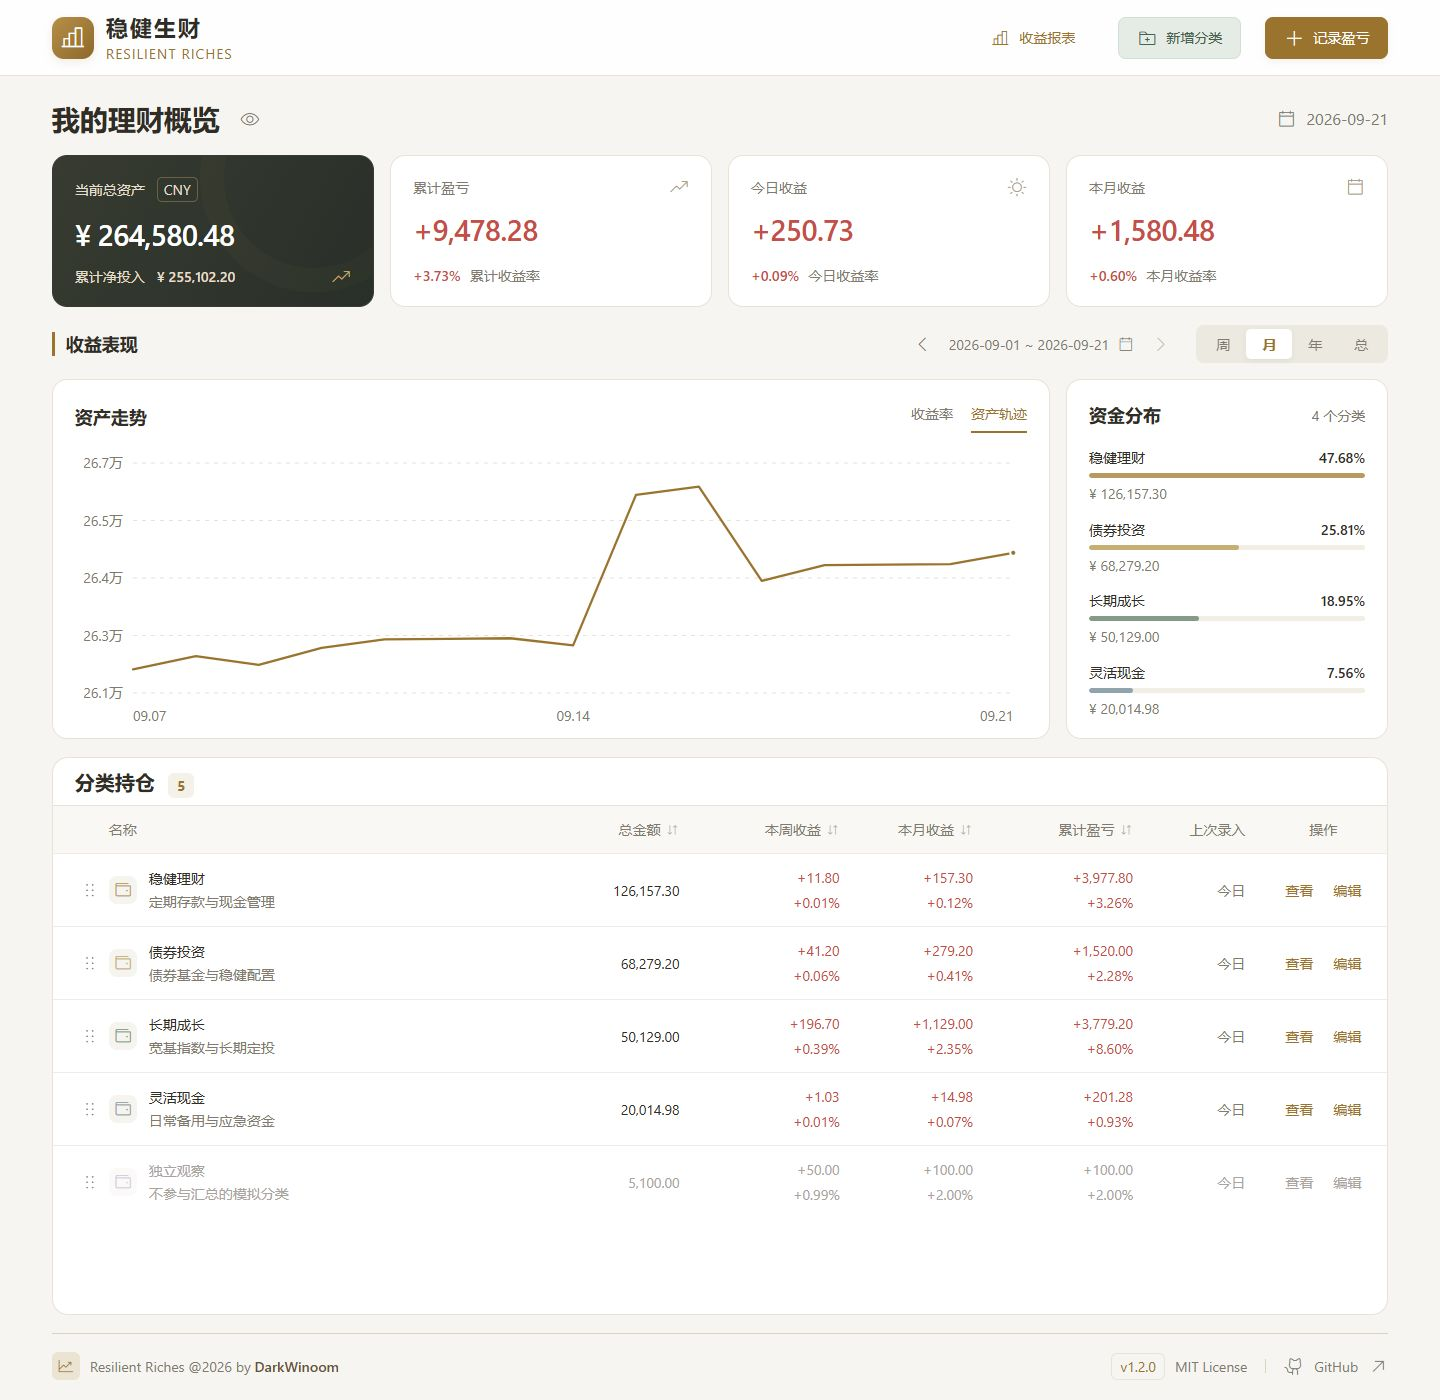
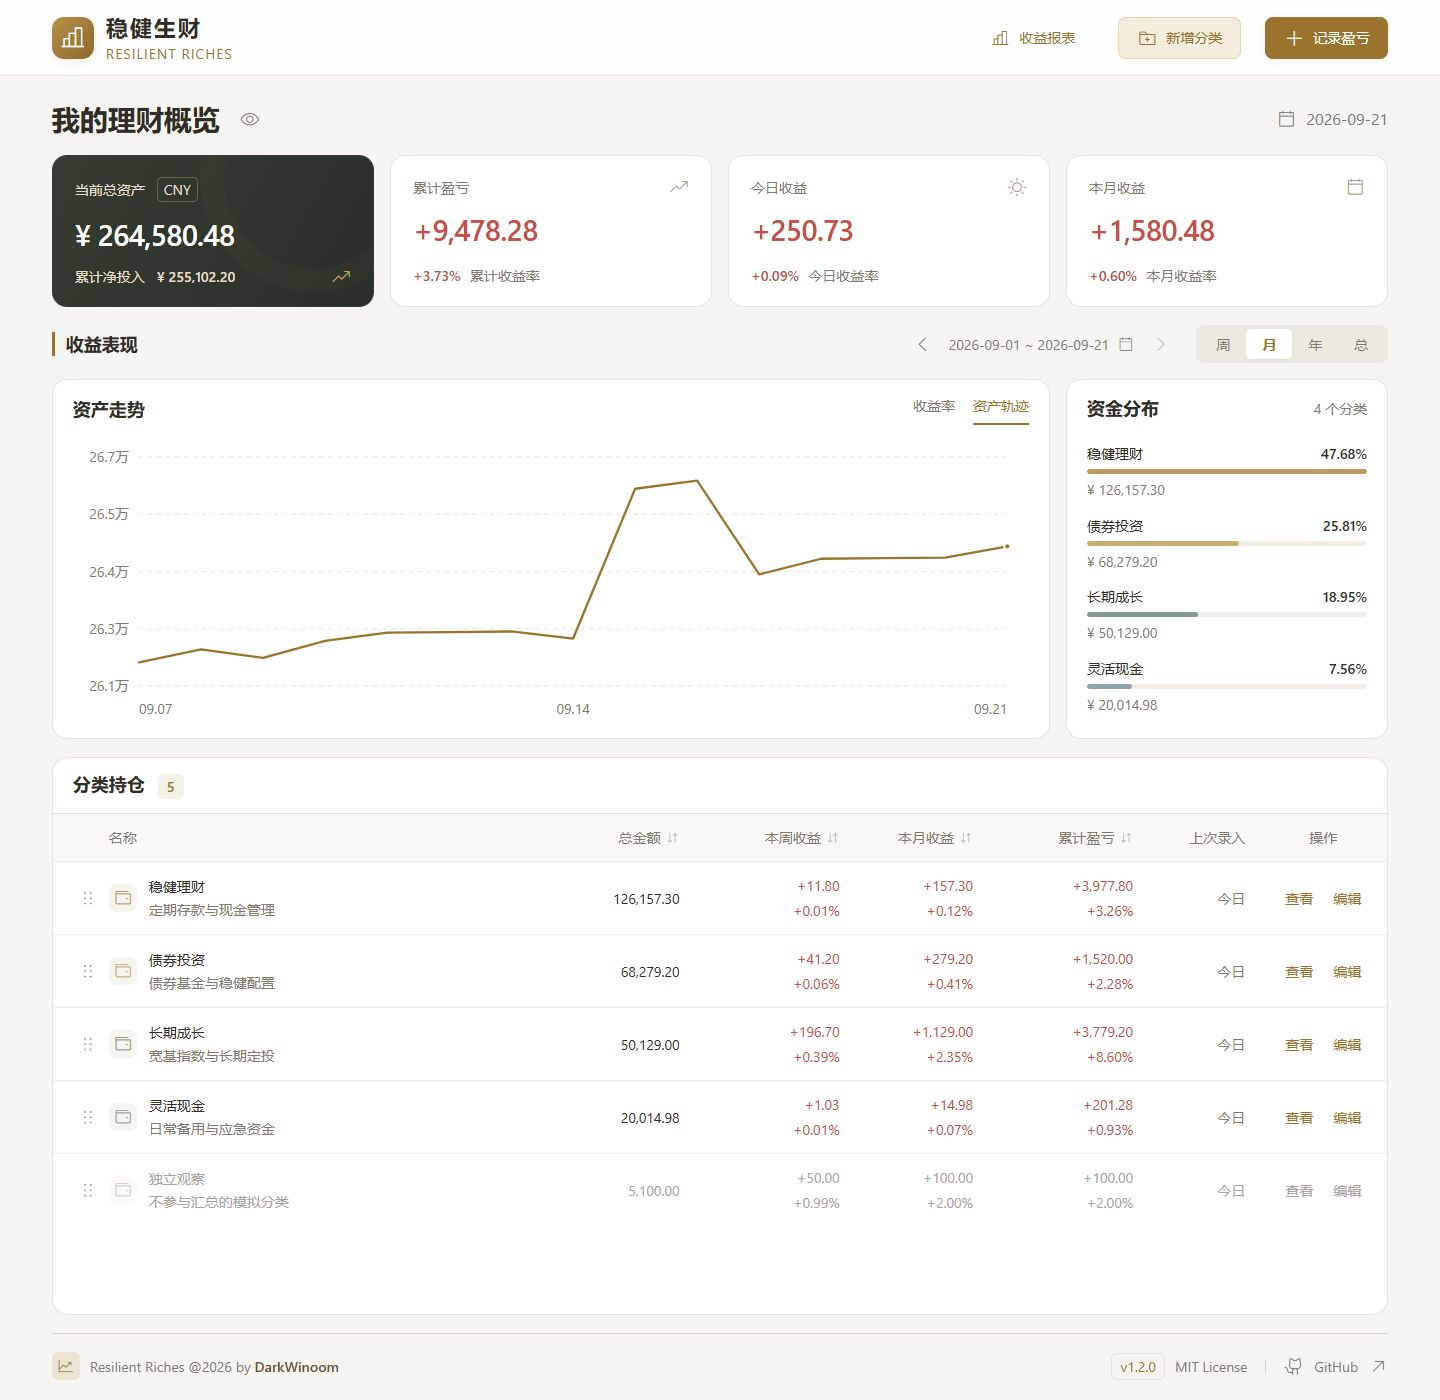
Unify dashboard panel spacing and refresh action colors

diff --git a/apps/web/src/dashboard.css b/apps/web/src/dashboard.css
@@ -167,6 +167,10 @@
   grid-template-columns: repeat(4, minmax(0, 1fr));
   gap: 16px;
 }
+.chart-panel,
+.dashboard-workspace .holdings-panel {
+  --panel-inset: 20px;
+}
 .chart-panel {
   height: 360px;
   background: #fff;
@@ -180,17 +184,22 @@
 .return-panel {
   grid-column: span 3;
 }
-.chart-heading {
+.chart-heading,
+.dashboard-workspace .panel-heading {
   display: flex;
   justify-content: space-between;
   align-items: center;
   gap: 16px;
-  padding: 20px 22px 10px;
-  min-height: 60px;
+  padding: 12px var(--panel-inset);
+  min-height: 56px;
   flex-shrink: 0;
 }
-.chart-heading h2 {
+.chart-heading h2,
+.dashboard-workspace .panel-heading h2 {
   font-size: 18px;
+  font-weight: 600;
+  line-height: 24px;
+  margin: 0;
   white-space: nowrap;
 }
 .chart-modes {
@@ -213,7 +222,7 @@
   position: relative;
   flex: 1;
   min-height: 0;
-  margin: 0 14px 9px;
+  margin: 0 var(--panel-inset) 16px;
   outline-offset: -3px !important;
 }
 .return-plot svg {
@@ -311,7 +320,7 @@
   flex: 1;
   overflow: auto;
   scrollbar-width: thin;
-  padding: 0 22px 12px;
+  padding: 0 var(--panel-inset) 16px;
   display: flex;
   flex-direction: column;
   min-height: 0;
@@ -373,9 +382,6 @@
 .dashboard-workspace .holdings-panel {
   min-height: 226px;
 }
-.dashboard-workspace .panel-heading {
-  padding: 10px 22px;
-}
 .dashboard-table col {
   width: 12%;
 }
@@ -401,7 +407,7 @@
 }
 .dashboard-table th:first-child,
 .dashboard-table td:first-child {
-  padding-left: 22px;
+  padding-left: var(--panel-inset);
 }
 .dashboard-table th:last-child,
 .dashboard-table td:last-child {
@@ -524,22 +530,13 @@
   font-weight: 500;
 }
 @media (min-width: 1600px) {
-  .summary-card,
-  .chart-heading {
+  .summary-card {
     padding-left: 26px;
     padding-right: 26px;
   }
-  .allocation-list {
-    padding-left: 26px;
-    padding-right: 26px;
-  }
-  .dashboard-workspace .panel-heading {
-    padding-left: 26px;
-    padding-right: 26px;
-  }
-  .dashboard-table th:first-child,
-  .dashboard-table td:first-child {
-    padding-left: 26px;
+  .chart-panel,
+  .dashboard-workspace .holdings-panel {
+    --panel-inset: 24px;
   }
 }
 @media (max-width: 1100px) {
@@ -552,13 +549,9 @@
   .summary-foot {
     gap: 7px;
   }
-  .chart-heading {
-    padding-left: 18px;
-    padding-right: 18px;
-  }
-  .allocation-list {
-    padding-left: 18px;
-    padding-right: 18px;
+  .chart-panel,
+  .dashboard-workspace .holdings-panel {
+    --panel-inset: 18px;
   }
   .chart-heading .muted {
     white-space: nowrap;
@@ -567,10 +560,6 @@
   .dashboard-table td {
     padding-left: 10px;
     padding-right: 10px;
-  }
-  .dashboard-table th:first-child,
-  .dashboard-table td:first-child {
-    padding-left: 18px;
   }
   .dashboard-table .holding-name {
     gap: 8px;
@@ -602,9 +591,6 @@
   }
   .return-panel {
     grid-column: auto;
-  }
-  .allocation-list {
-    padding-bottom: 16px;
   }
   .allocation-row {
     flex-basis: max(70px, calc(100% / var(--allocation-count)));
@@ -720,18 +706,12 @@
   .period-marker {
     width: 40px;
   }
-  .chart-heading {
-    padding: 18px 16px 10px;
+  .chart-panel,
+  .dashboard-workspace .holdings-panel {
+    --panel-inset: 16px;
   }
   .chart-modes {
     gap: 12px;
-  }
-  .return-plot {
-    margin-left: 0;
-    margin-right: 6px;
-  }
-  .dashboard-workspace .panel-heading {
-    padding: 14px 16px;
   }
   .dashboard-table colgroup {
     display: none;
@@ -842,13 +822,13 @@
 }
 
 .category-create {
-  background: #e4ece5;
-  color: #47614c;
-  border-color: #d2dfd4;
+  background: #f4edde;
+  color: var(--gold);
+  border-color: #e4d4b3;
 }
 .category-create:hover:not(:disabled) {
-  background: #d7e4da;
-  border-color: #b9cdbd;
+  background: #eadcc0;
+  border-color: #d5bf95;
 }
 .record-menu {
   position: relative;
@@ -938,7 +918,7 @@
 .chart-scope {
   color: var(--muted);
   font-size: 14px;
-  padding: 0 22px 6px;
+  padding: 0 var(--panel-inset) 6px;
 }
 
 .period-controls--all .range-label {
